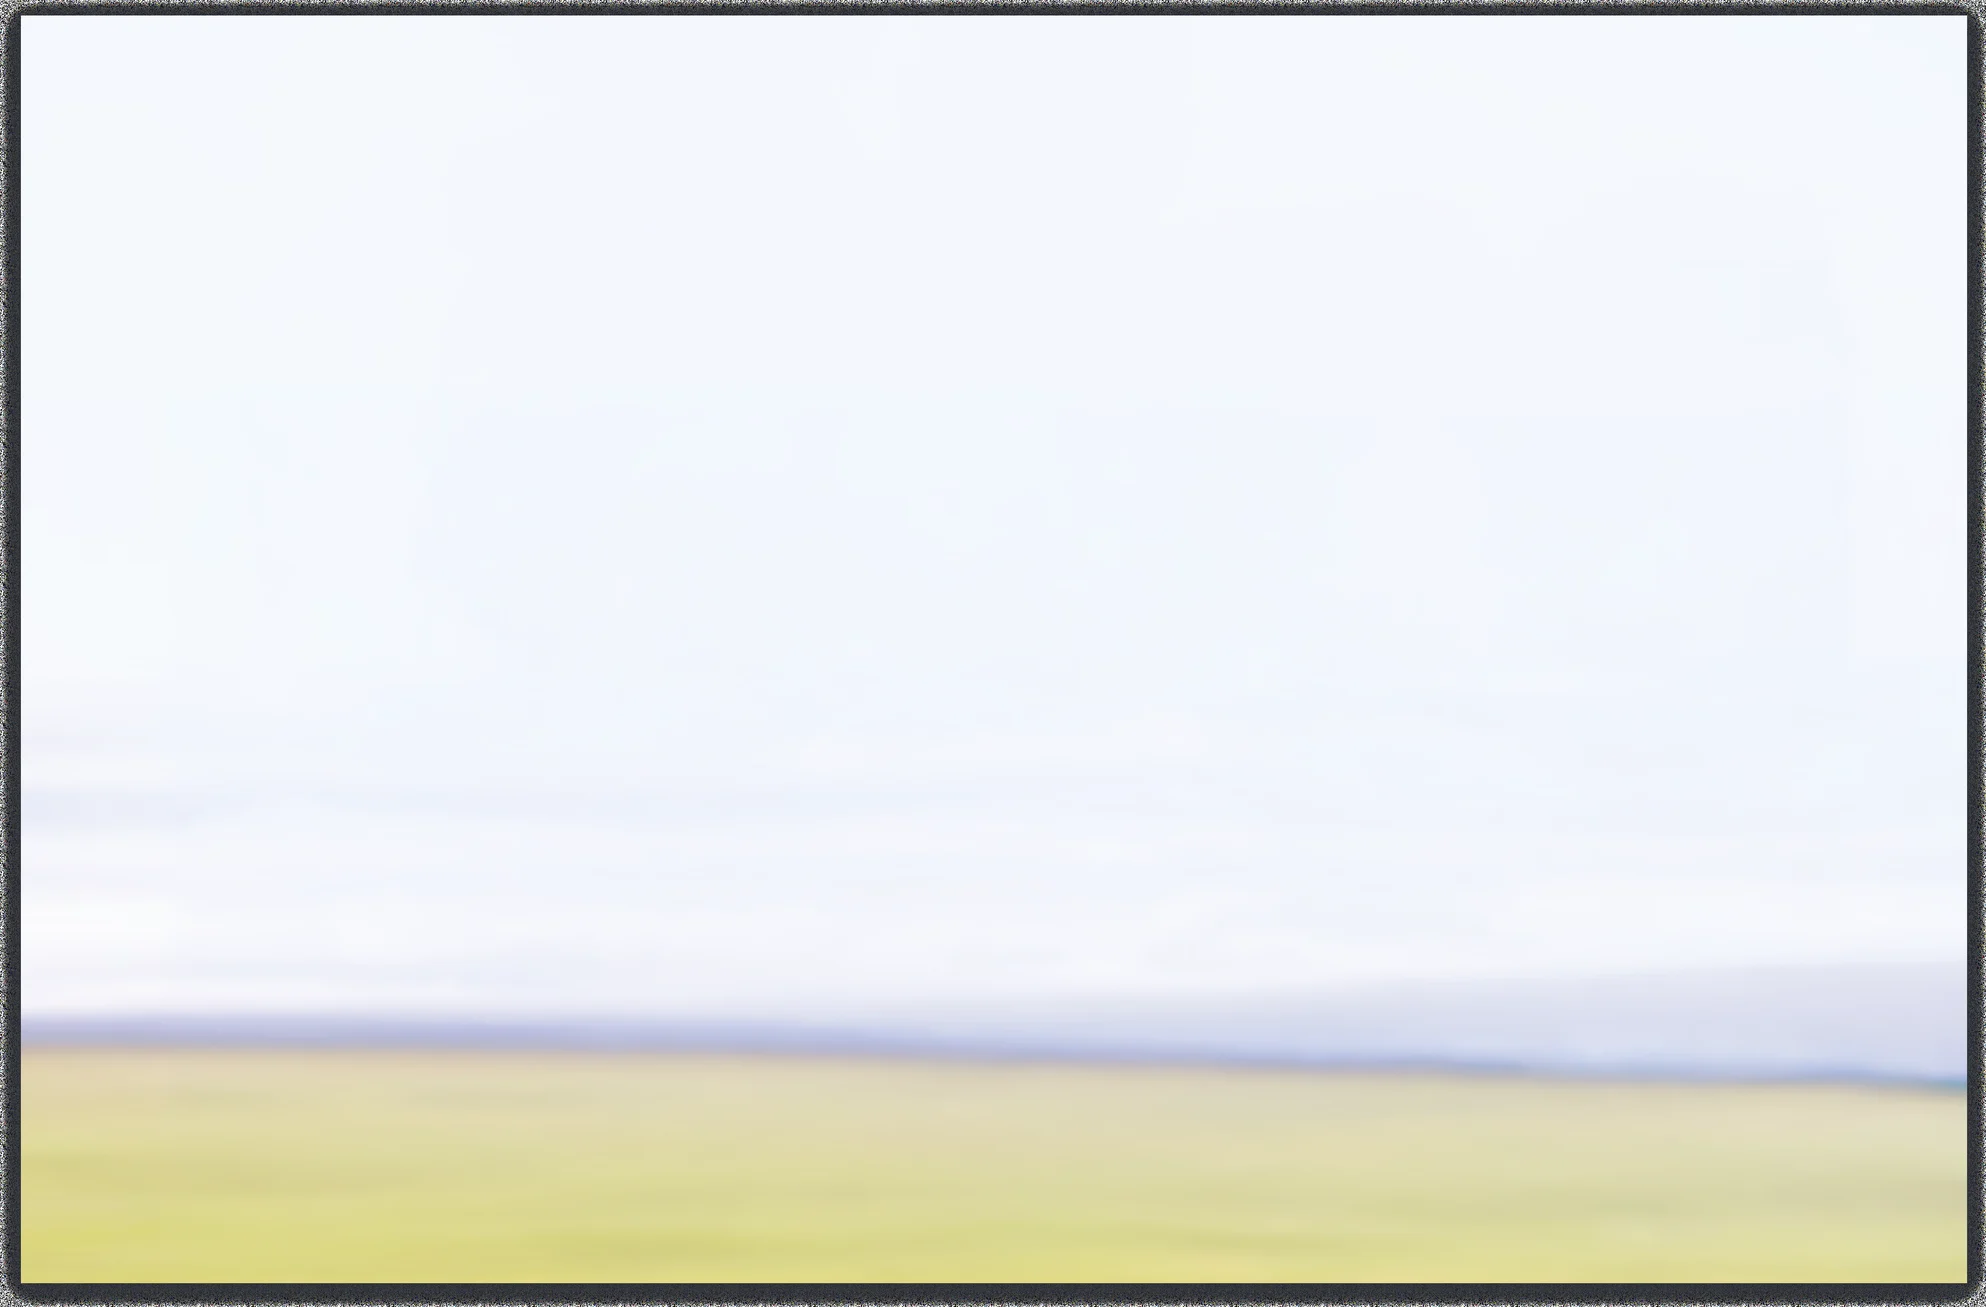
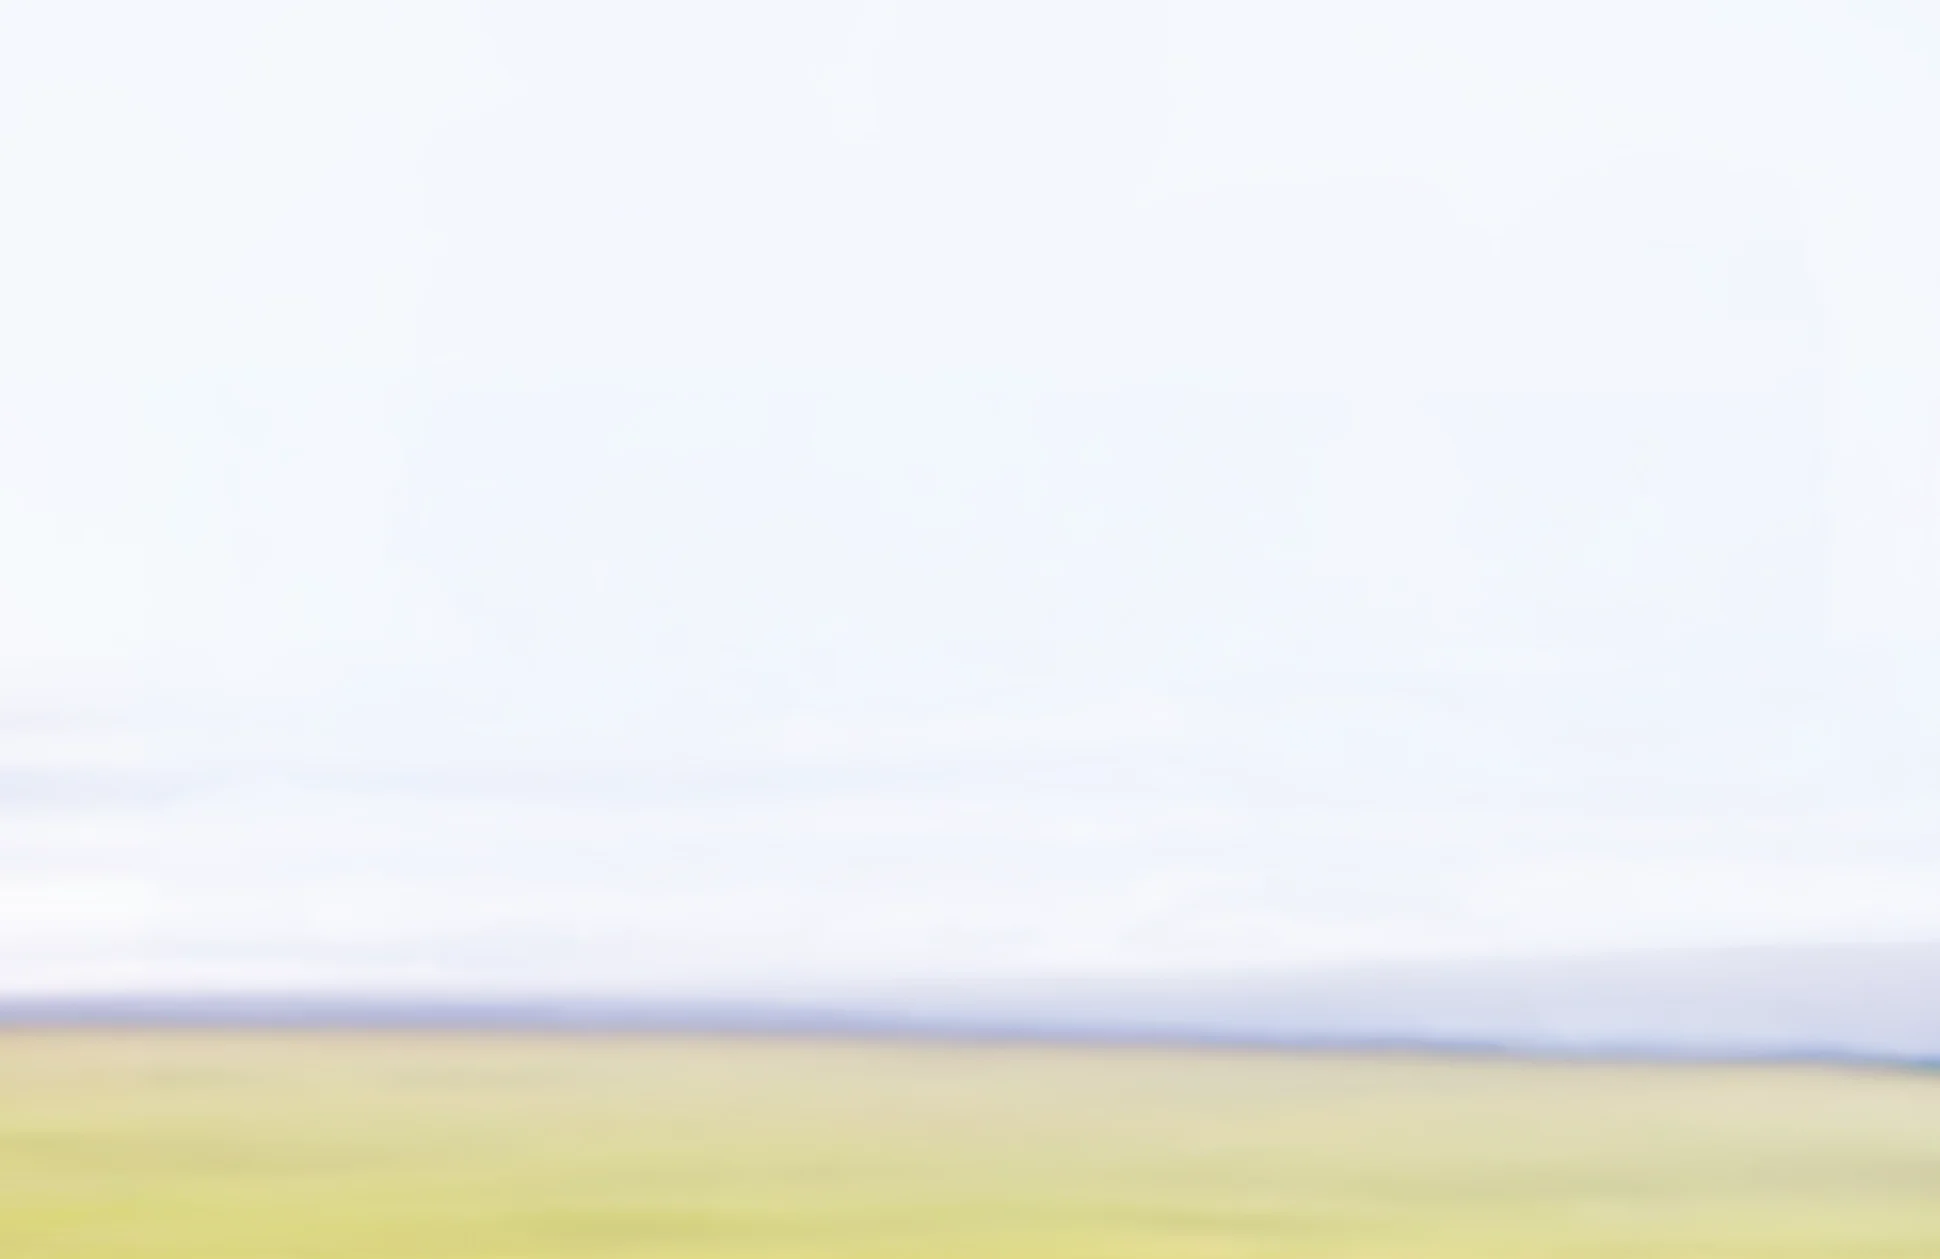
push

Changed region(s): [[0.0, 0.0, 1.0, 1.0]]

diff --git a/landing/v5/index.html b/landing/v5/index.html
@@ -438,6 +438,24 @@ main>section.block{padding-top:180px}
 .nav:not(.solid) .mib-version-switch-item{color:#4a4a4a}.nav:not(.solid) .mib-version-switch-item:hover{color:var(--midnight);background:rgba(255,255,255,.8)}
 .nav:not(.solid) .mib-version-switch-item[data-active]{color:var(--midnight);background:var(--yellow)}
 .nav:not(.solid) .nav-toggle{color:var(--midnight)}
+/* bigger mega menu */
+.mega-surface{grid-template-columns:minmax(0,1fr) 440px;gap:16px;padding:16px}
+.mega-list{gap:8px 16px;padding:12px}
+.nav .mega-item{gap:18px;padding:18px}
+.mega-icon{width:56px;height:56px;border-radius:14px;font-size:28px}
+.mega-text b{font-size:20px}
+.mega-text small{font-size:15px}
+.nav .mega-feat{min-height:340px;padding:28px}
+.mega-copy b{font-size:28px}
+.mega-copy small{font-size:15px}
+.mega-cta{font-size:15px;padding:12px 18px 12px 22px}
+/* mega menu matches the nav: light glass over the hero */
+.nav:not(.solid) .mega-surface{background:rgba(255,255,255,.96)!important;border-color:rgba(255,255,255,.9)!important;box-shadow:0 24px 60px rgba(42,43,47,.14),inset 0 1px 0 #fff}
+.nav:not(.solid) .mega-item{color:var(--midnight)}
+.nav:not(.solid) .mega-item:hover,.nav:not(.solid) .mega-item:focus-visible{background:rgba(42,43,47,.05)}
+.nav:not(.solid) .mega-text small{color:var(--muted)}
+.nav:not(.solid) .mega-icon{color:#8c6d0a;background:rgba(246,212,56,.18);border-color:rgba(246,212,56,.4)}
+.nav:not(.solid) .mega-item:hover .mega-icon{background:var(--yellow);color:var(--midnight)}
 .nav-logo img{height:56px}
 .nav-links a{font-size:19px!important;padding:12px 20px!important}
 .nav .btn{min-height:60px;padding:0 36px;font-size:17px}
@@ -570,7 +588,7 @@ main>section.block{padding-top:180px}
 <main>
   <!-- hero -->
   <section class="hero" data-mode="personal" aria-labelledby="hero-title">
-    <div class="hero-bg" aria-hidden="true"><img data-for="personal" src="/static/landing/v5-sky.webp" alt=""><img data-for="commercial" src="/static/landing/v5-office.webp" alt="" loading="lazy"></div>
+    <div class="hero-bg" aria-hidden="true"><img data-for="personal" src="/static/landing/v5-sky.webp?v=3" alt=""><img data-for="commercial" src="/static/landing/v5-office.webp" alt="" loading="lazy"></div>
     <div class="wrap">
       <div class="hero-copy">
         <div class="seg" role="group" aria-label="Insurance type">
